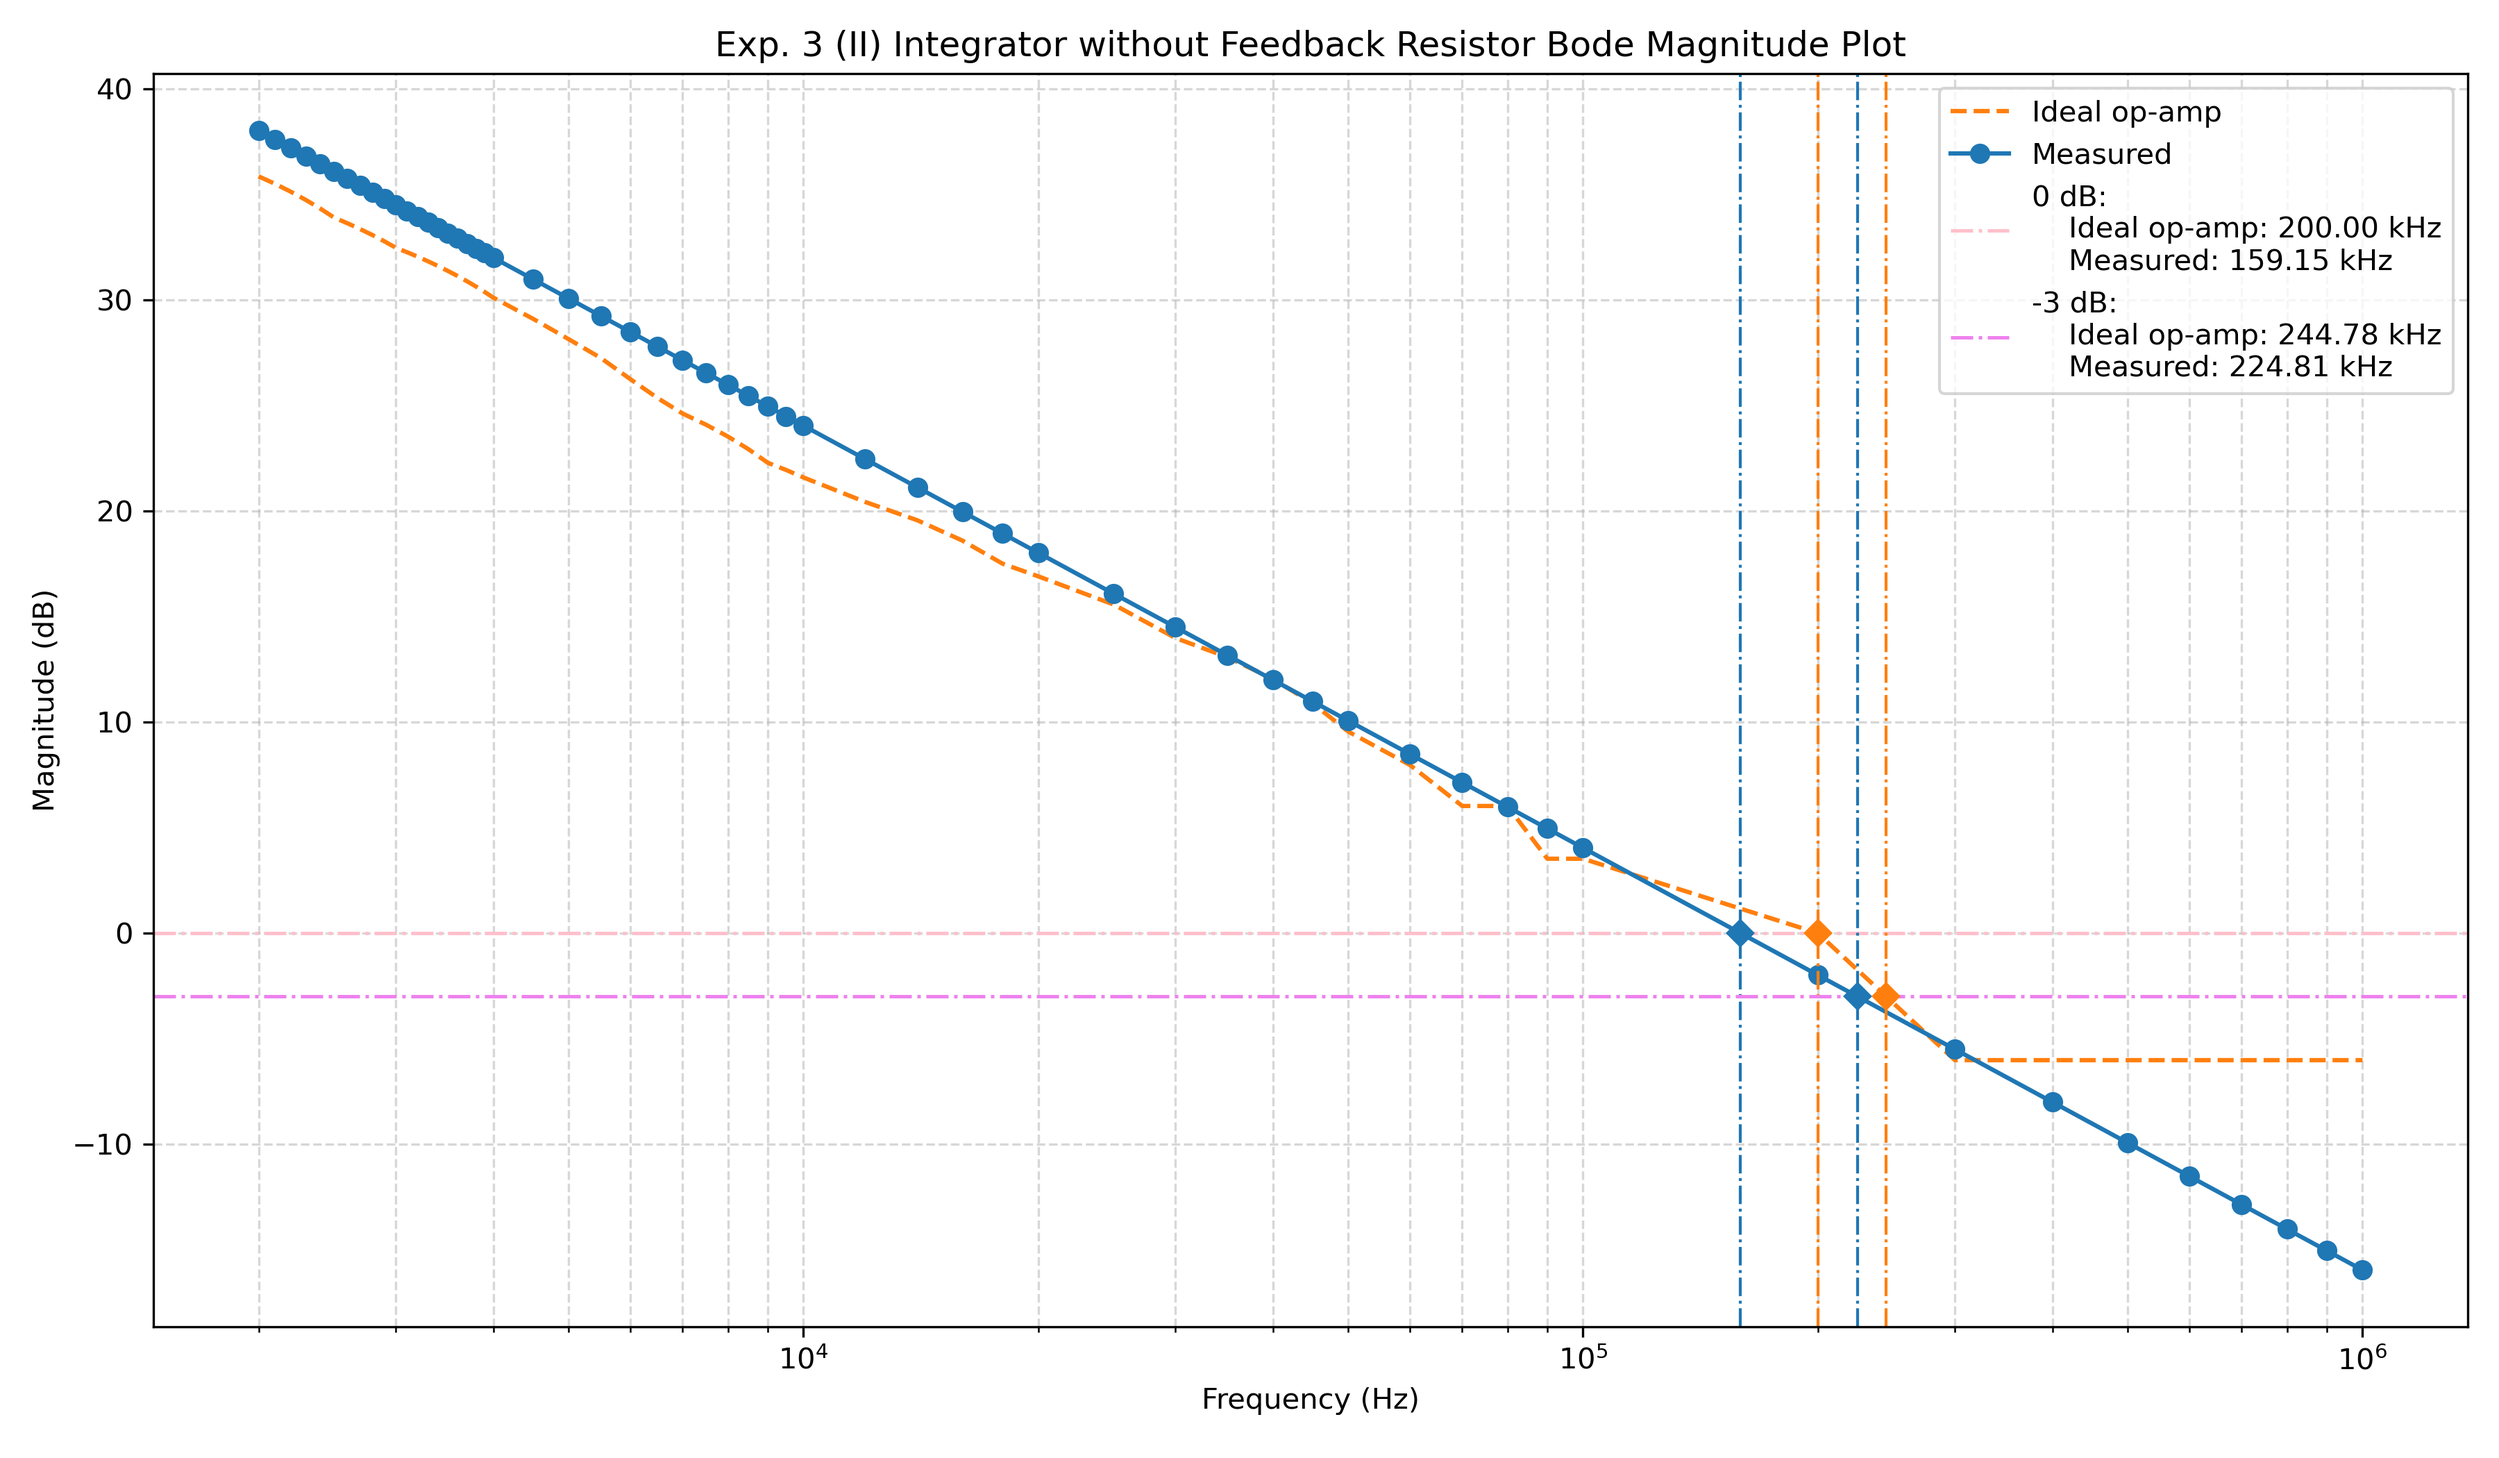
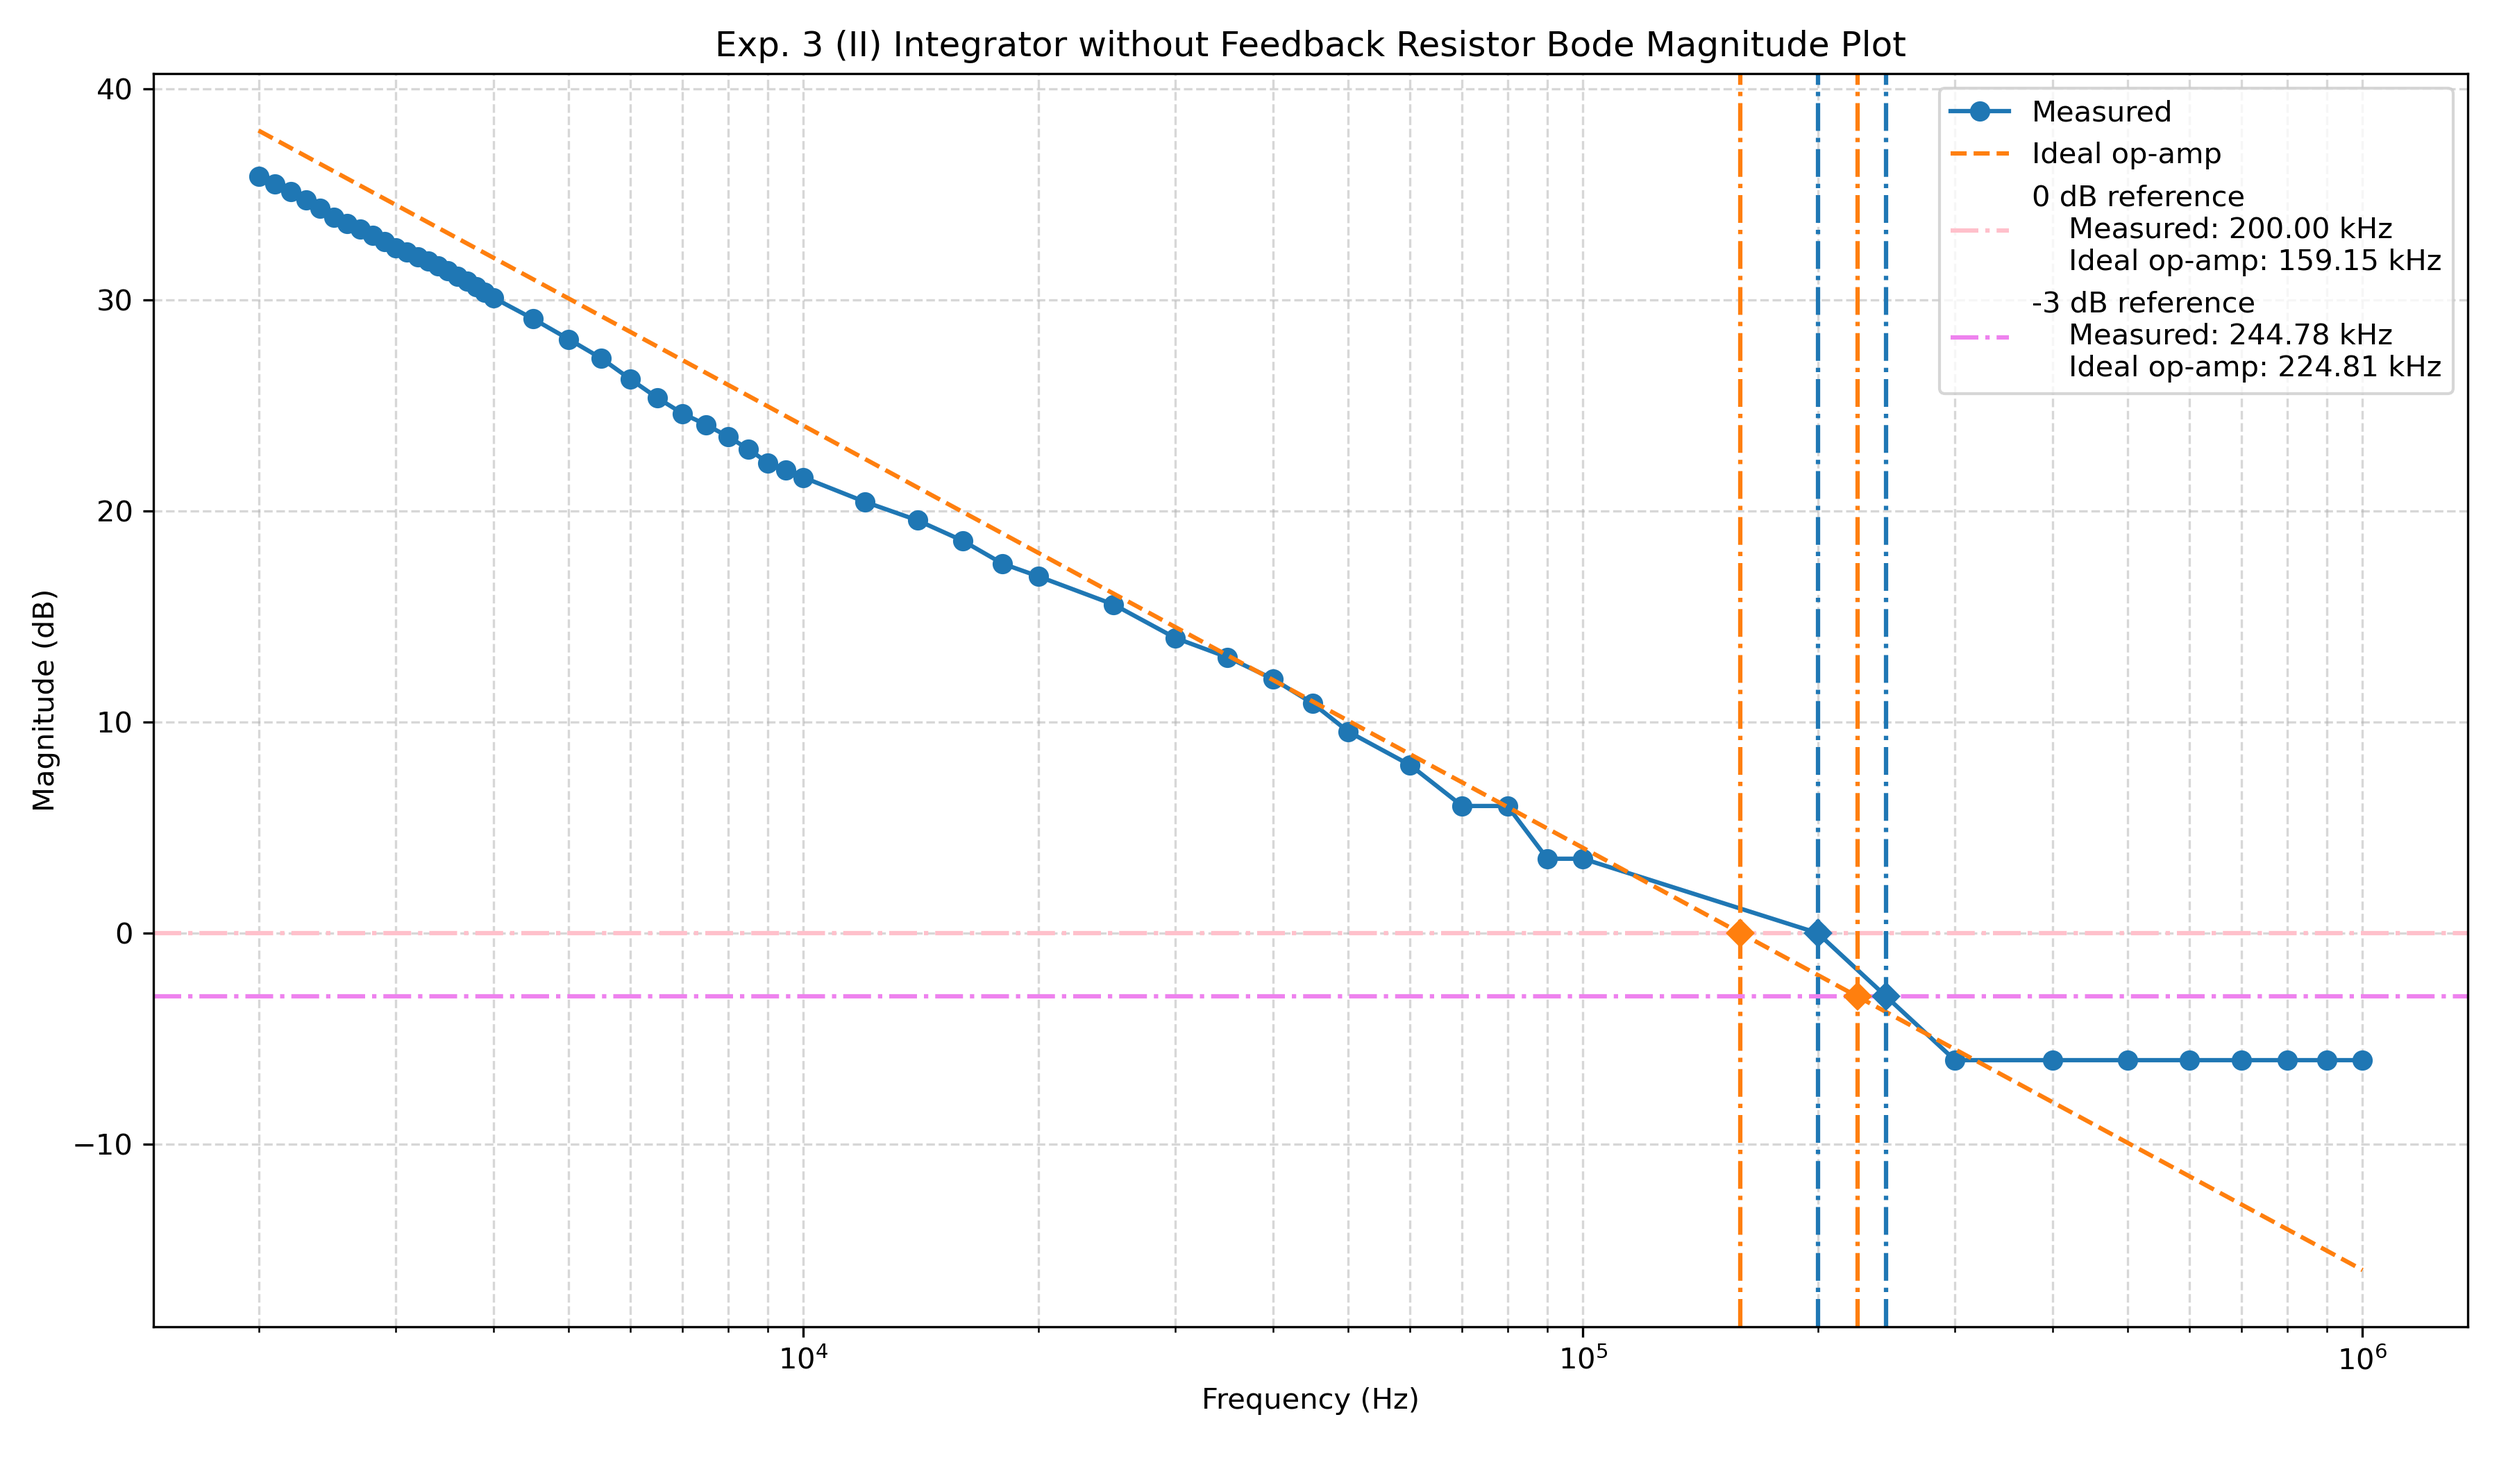
2026-11-08T10:57:28+00:00

diff --git a/2/post-lab/bode_plot.py b/2/post-lab/bode_plot.py
@@ -105,9 +105,9 @@ def process(C, freq, vout_pp, name, title, plotname, tablename):
     fig.savefig(tablename, dpi=300, bbox_inches="tight")
     plt.close(fig)
     fig, ax = plt.subplots(figsize=(12, 7))
-    line_styles = ["--", "o-"]
-    amp_names = ["Ideal op-amp", "Measured"]
-    amp_colors = ["tab:orange", "tab:blue"]
+    line_styles = ["o-", "--"]
+    amp_names = ["Measured", "Ideal op-amp"]
+    amp_colors = ["tab:blue", "tab:orange"]
     for db, line_style, amp_name, color in zip(dbs, line_styles, amp_names, amp_colors):
         ax.semilogx(freq, db, line_style, label=amp_name, color=color)
     freq_dense = np.logspace(
@@ -123,7 +123,7 @@ def process(C, freq, vout_pp, name, title, plotname, tablename):
             find_crossings(freq, dbs[0], level),
             find_crossings(freq_dense, ideal_dense_db, level),
         ]
-        label = f"{level} dB:"
+        label = f"{level} dB reference"
         for crossing, amp_name, amp_color in zip(crossings, amp_names, amp_colors):
             for i, fc in enumerate(crossing):
                 ax.plot(
@@ -138,14 +138,12 @@ def process(C, freq, vout_pp, name, title, plotname, tablename):
                     fc,
                     color=amp_color,
                     linestyle="-.",
-                    linewidth=1,
                 )
                 label += f"\n    {amp_name}: {format_frequency(fc)}"
         ax.axhline(
             level,
             color=reference_color,
             linestyle="-.",
-            linewidth=1.2,
             label=label,
         )
     ax.set_xlabel("Frequency (Hz)")
